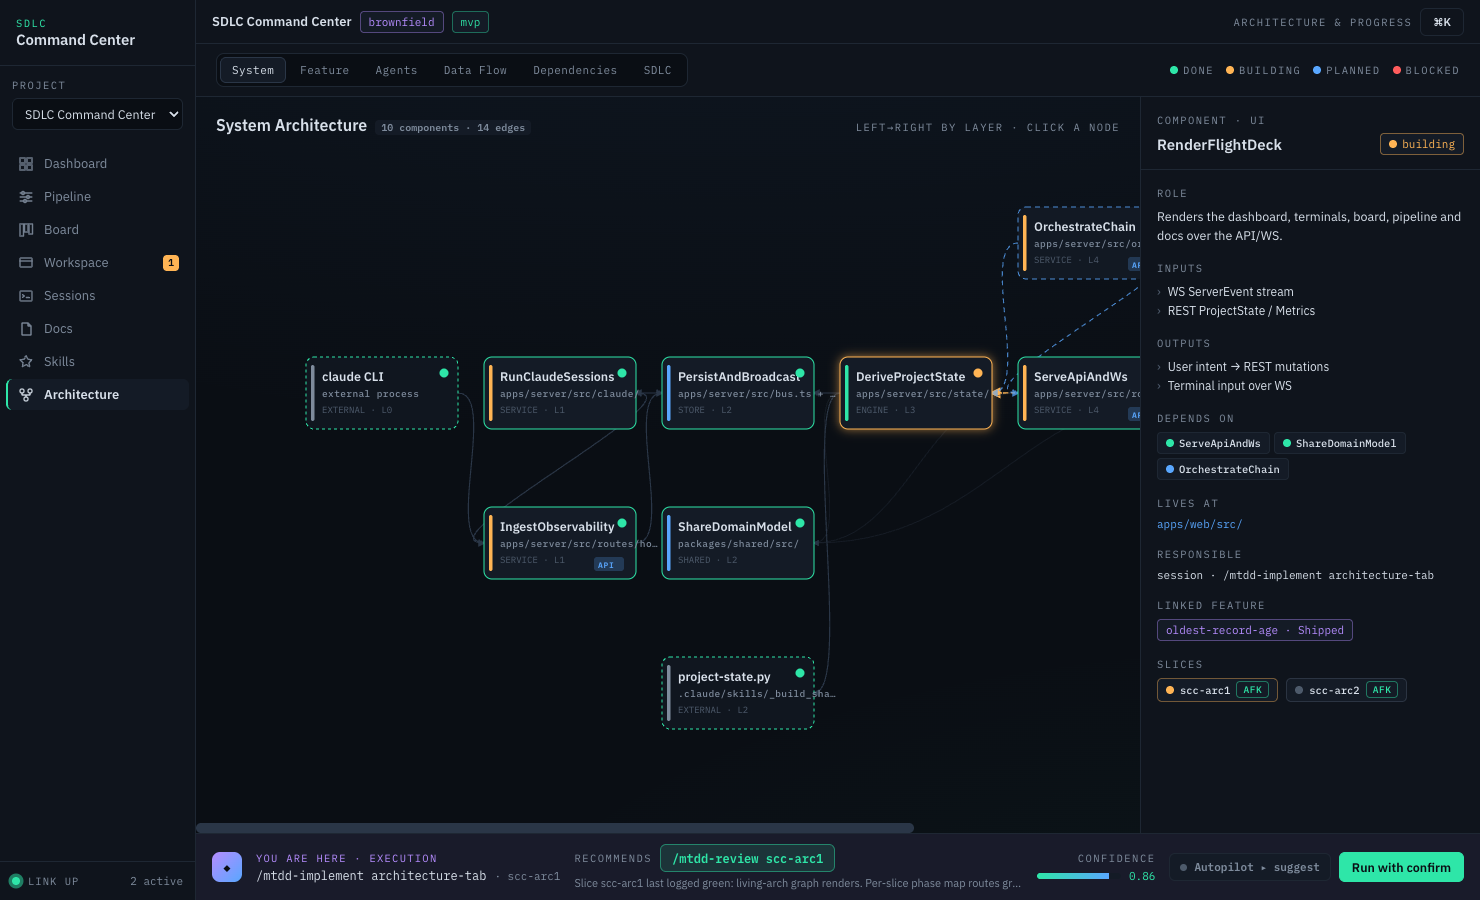
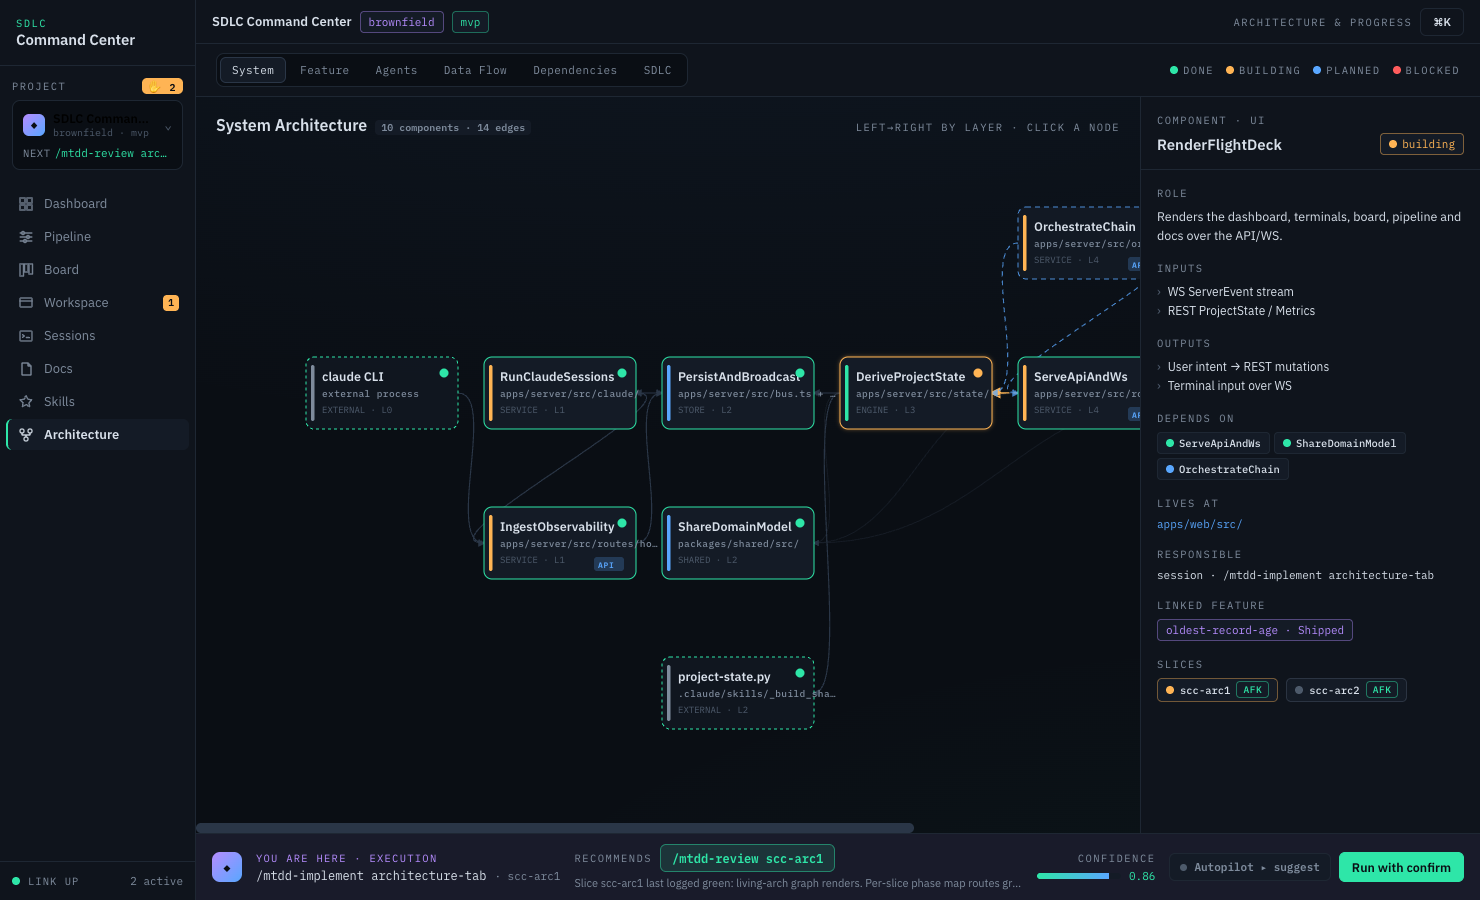
spike(v2): fold portfolio into prototype A as a rail switcher + popover
Per design decision (live inside one project; portfolio = switcher rail, not a
home screen): replace command-deck.html's plain project <select> with a switcher
that shows the current project + its conductor's next move + an ambient ✋ badge
when other projects need you. Clicking opens a portfolio popover (mockup C
distilled) ranked by urgency, each row a completion ring + next-move + Run. Top
bar and conductor strip now follow the selected project.

diff --git a/prototypes/v2-architecture-tab/command-deck.html b/prototypes/v2-architecture-tab/command-deck.html
@@ -110,6 +110,25 @@
 
     .seg-title { display: flex; align-items: baseline; gap: 8px; margin-bottom: 12px; }
     .badge-count { font: 600 10px var(--mono); padding: 1px 6px; border-radius: 4px; background: var(--raised); color: var(--muted); }
+
+    /* ---- portfolio switcher rail + popover ---- */
+    .switcher { position: relative; }
+    .switcher-btn { width: 100%; text-align: left; cursor: pointer; border: 1px solid var(--hairline); background: var(--bg); border-radius: 8px; padding: 9px 10px; transition: border-color 140ms; font-family: var(--sans); }
+    .switcher-btn:hover { border-color: var(--hairline-bright); }
+    .sw-mark { width: 22px; height: 22px; border-radius: 6px; flex-shrink: 0; display: flex; align-items: center; justify-content: center; background: linear-gradient(135deg, var(--violet), var(--blue)); color: var(--bg); font-size: 12px; }
+    .switcher-next { color: var(--green); }
+    .attn-badge { display: inline-flex; align-items: center; gap: 4px; height: 16px; padding: 0 6px; border-radius: 5px; background: var(--amber); color: var(--bg); font: 700 10px var(--mono); --accent: var(--amber); }
+    .scrim { position: fixed; inset: 0; background: color-mix(in srgb, var(--bg) 55%, transparent); z-index: 70; }
+    .popover { position: absolute; left: 6px; top: calc(100% + 8px); width: 338px; z-index: 80; background: var(--surface); border: 1px solid var(--hairline-bright); border-radius: 10px; box-shadow: 0 18px 44px rgba(0,0,0,0.55); overflow: hidden; }
+    .po-head { padding: 11px 14px; border-bottom: 1px solid var(--hairline); }
+    .po-row { padding: 11px 14px; border-bottom: 1px solid var(--hairline); cursor: pointer; transition: background 120ms; }
+    .po-row:last-child { border-bottom: none; }
+    .po-row:hover { background: var(--raised); }
+    .po-row.current { background: color-mix(in srgb, var(--green) 7%, transparent); }
+    .po-row.at-risk { border-left: 2px solid var(--red); }
+    .po-run { font: 600 10.5px var(--mono); padding: 4px 9px; border-radius: 5px; cursor: pointer; border: 1px solid color-mix(in srgb, var(--green) 45%, transparent); background: color-mix(in srgb, var(--green) 12%, transparent); color: var(--green); }
+    .po-run:hover { filter: brightness(1.15); }
+    .ring { transform: rotate(-90deg); }
   </style>
 </head>
 <body>
@@ -120,15 +139,7 @@
       <div class="micro kicker">SDLC</div>
       <div class="name">Command Center</div>
     </div>
-    <div class="rail-section">
-      <div class="micro" style="margin-bottom:6px;">Project</div>
-      <select class="select">
-        <option>SDLC Command Center</option>
-        <option>acme-billing</option>
-        <option>marketing-site</option>
-        <option>telemetry-pipeline</option>
-      </select>
-    </div>
+    <div class="rail-section switcher" id="switcher"></div>
     <nav class="rail-nav" id="nav"></nav>
     <div class="rail-section">
       <div class="row">
@@ -143,11 +154,7 @@
   <main class="main">
     <!-- top bar -->
     <div class="topbar">
-      <div class="row gap8">
-        <span style="font-weight:600;">SDLC Command Center</span>
-        <span class="chip" style="color:var(--violet);border-color:color-mix(in srgb,var(--violet) 40%,transparent)">brownfield</span>
-        <span class="chip" style="color:var(--green);border-color:color-mix(in srgb,var(--green) 40%,transparent)">mvp</span>
-      </div>
+      <div class="row gap8" id="topbarProj"></div>
       <div class="row gap8" style="margin-left:auto;">
         <span class="micro">Architecture &amp; Progress</span>
         <button class="btn ghost mono" style="font-size:11px;">⌘K</button>
@@ -653,51 +660,159 @@
   };
 
   // ============================================================
-  //  CONDUCTOR STRIP
+  //  PROJECT SWITCHER  (portfolio distilled into a rail switcher)
+  //  You live inside ONE project; the rail switches + ambient-badges the rest.
+  // ============================================================
+  let currentProjectId = (M.projects.find(p => p.current) || M.projects[0]).id;
+  let popoverOpen = false;
+  const curProject = () => M.projects.find(p => p.id === currentProjectId) || M.projects[0];
+  // rank by who needs a human most (mirrors the portfolio dispatcher — no cross-project reasoning, just ranking)
+  const urgency = p => (p.health === 'at-risk' ? 100 : 0) + p.attention * 10 + p.blocked * 6 + p.liveSessions;
+  const completion = p => {
+    const denom = (p.foundationTotal + p.building + p.shipped + p.blocked + p.planned) || 1;
+    return Math.round(((p.foundationDone + p.shipped) / denom) * 100);
+  };
+  const ring = (pct, color, size = 30) => {
+    const r = size / 2 - 3, c = 2 * Math.PI * r, off = c * (1 - pct / 100);
+    return `<span style="position:relative;display:inline-flex;width:${size}px;height:${size}px;align-items:center;justify-content:center;flex-shrink:0;">
+      <svg class="ring" width="${size}" height="${size}" style="position:absolute;inset:0;"><circle cx="${size / 2}" cy="${size / 2}" r="${r}" fill="none" stroke="var(--hairline)" stroke-width="3"/><circle cx="${size / 2}" cy="${size / 2}" r="${r}" fill="none" stroke="${color}" stroke-width="3" stroke-linecap="round" stroke-dasharray="${c.toFixed(1)}" stroke-dashoffset="${off.toFixed(1)}"/></svg>
+      <span style="font:600 9px var(--mono);color:var(--text);">${pct}</span></span>`;
+  };
+
+  const switcherEl = document.getElementById('switcher');
+
+  const renderPopover = () => {
+    const ranked = M.projects.slice().sort((a, b) => urgency(b) - urgency(a));
+    const rows = ranked.map(p => {
+      const pct = completion(p);
+      const col = p.health === 'at-risk' ? 'var(--red)' : (p.id === currentProjectId ? 'var(--green)' : 'var(--blue)');
+      const badges = [];
+      if (p.attention > 0) badges.push(`<span class="attn-badge">✋ ${p.attention}</span>`);
+      if (p.liveSessions > 0) badges.push(`<span class="chip" style="height:16px;color:var(--green);font-size:9.5px;">● ${p.liveSessions} live</span>`);
+      if (p.health === 'at-risk') badges.push(`<span class="chip" style="height:16px;color:var(--red);font-size:9.5px;border-color:color-mix(in srgb,var(--red) 45%,transparent)">at-risk</span>`);
+      return `<div class="po-row ${p.id === currentProjectId ? 'current' : ''} ${p.health === 'at-risk' ? 'at-risk' : ''}" data-proj="${p.id}">
+        <div class="row gap8">
+          ${ring(pct, col, 30)}
+          <div class="col grow" style="min-width:0;gap:3px;">
+            <div class="row gap8"><span class="nowrap" style="font-weight:600;font-size:12.5px;">${p.name}</span>${p.id === currentProjectId ? '<span class="tag" style="color:var(--green);border-color:color-mix(in srgb,var(--green) 45%,transparent)">current</span>' : ''}</div>
+            <div class="row gap4 wrap">${badges.length ? badges.join('') : `<span class="mono faint" style="font-size:10px;">${p.type} · ${p.tier} · ${p.lastActivity}</span>`}</div>
+          </div>
+        </div>
+        <div class="spread" style="margin-top:9px;">
+          <span class="switcher-next mono nowrap" style="font-size:11px;">${p.nextMove}</span>
+          <button class="po-run" data-run="${p.id}">Run ▸</button>
+        </div>
+      </div>`;
+    }).join('');
+    return `<div class="scrim" id="scrim"></div>
+      <div class="popover" id="popover">
+        <div class="po-head spread"><span class="micro">Portfolio · ${M.projects.length} projects</span><span class="micro faint">ranked · who needs you</span></div>
+        ${rows}
+      </div>`;
+  };
+
+  const wirePopover = () => {
+    const scrim = switcherEl.querySelector('#scrim');
+    if (scrim) scrim.onclick = () => { popoverOpen = false; renderSwitcher(); };
+    switcherEl.querySelectorAll('[data-proj]').forEach(r => {
+      r.onclick = (e) => {
+        if (e.target.closest('[data-run]')) return;
+        currentProjectId = r.getAttribute('data-proj');
+        popoverOpen = false;
+        renderSwitcher(); renderTopbar(); renderConductor();
+      };
+    });
+    switcherEl.querySelectorAll('[data-run]').forEach(b => {
+      b.onclick = (e) => {
+        e.stopPropagation();
+        b.textContent = 'Confirm?';
+        setTimeout(() => { b.textContent = 'Run ▸'; }, 1500);
+      };
+    });
+  };
+
+  const renderSwitcher = () => {
+    const cur = curProject();
+    const otherAttn = M.projects.filter(p => p.id !== cur.id).reduce((s, p) => s + p.attention, 0);
+    const ambient = otherAttn > 0 ? `<span class="attn-badge live-pulse">✋ ${otherAttn}</span>` : '';
+    switcherEl.innerHTML = `
+      <div class="micro spread" style="margin-bottom:6px;"><span>Project</span>${ambient}</div>
+      <button class="switcher-btn" id="swBtn">
+        <div class="row gap8">
+          <span class="sw-mark">◆</span>
+          <div class="col grow" style="min-width:0;">
+            <span class="nowrap" style="font-weight:600;font-size:12.5px;">${cur.name}</span>
+            <span class="mono faint" style="font-size:10px;">${cur.type} · ${cur.tier}</span>
+          </div>
+          <span class="faint" style="font-size:13px;">⌄</span>
+        </div>
+        <div class="row gap4" style="margin-top:7px;">
+          <span class="micro" style="letter-spacing:.06em;">next</span>
+          <span class="switcher-next mono nowrap" style="font-size:11px;">${cur.nextMove}</span>
+        </div>
+      </button>
+      ${popoverOpen ? renderPopover() : ''}`;
+    switcherEl.querySelector('#swBtn').onclick = (e) => { e.stopPropagation(); popoverOpen = !popoverOpen; renderSwitcher(); };
+    if (popoverOpen) wirePopover();
+  };
+
+  // ============================================================
+  //  TOP BAR (project-driven)
+  // ============================================================
+  const renderTopbar = () => {
+    const p = curProject();
+    document.getElementById('topbarProj').innerHTML = `
+      <span style="font-weight:600;">${p.name}</span>
+      <span class="chip" style="color:var(--violet);border-color:color-mix(in srgb,var(--violet) 40%,transparent)">${p.type}</span>
+      <span class="chip" style="color:var(--green);border-color:color-mix(in srgb,var(--green) 40%,transparent)">${p.tier}</span>
+      ${p.health === 'at-risk' ? '<span class="chip" style="color:var(--red);border-color:color-mix(in srgb,var(--red) 45%,transparent)">at-risk</span>' : ''}`;
+  };
+
+  // ============================================================
+  //  CONDUCTOR STRIP  (the CURRENT project's per-project conductor)
   // ============================================================
   const renderConductor = () => {
     const o = M.orchestrator;
-    const rec = o.recommendation;
+    const p = curProject();
+    let here, hereLine, rec, rationale, conf;
+    if (p.id === o.projectId) {
+      here = o.youAreHere.phase;
+      hereLine = `<span class="mono" style="font-size:12px;color:var(--text);">/${o.youAreHere.stage} ${o.youAreHere.feature}</span><span class="mono dim" style="font-size:11px;">· ${o.youAreHere.slice}</span>`;
+      rec = o.recommendation; rationale = o.recommendation.rationale; conf = o.confidence;
+    } else {
+      const parts = p.nextMove.replace(/^\//, '').split(' ');
+      rec = { skill: parts[0], args: parts.slice(1).join(' ') };
+      here = `${p.type} · ${p.tier}`;
+      hereLine = `<span class="mono" style="font-size:12px;color:var(--text);">${p.name}</span>`;
+      rationale = `Highest-priority move for ${p.name} — ${p.shipped} shipped · ${p.building} building · ${p.blocked} blocked.`;
+      conf = p.health === 'at-risk' ? 0.72 : 0.84;
+    }
     const cond = document.getElementById('conductor');
     cond.innerHTML = `
       <div class="avatar">◆</div>
       <div class="col" style="gap:3px;min-width:0;">
-        <div class="micro" style="color:var(--violet);letter-spacing:.12em;">You are here · ${o.youAreHere.phase}</div>
-        <div class="row gap8 nowrap">
-          <span class="mono" style="font-size:12px;color:var(--text);">/${o.youAreHere.stage} ${o.youAreHere.feature}</span>
-          <span class="mono dim" style="font-size:11px;">· ${o.youAreHere.slice}</span>
-        </div>
+        <div class="micro" style="color:var(--violet);letter-spacing:.12em;">You are here · ${here}</div>
+        <div class="row gap8 nowrap">${hereLine}</div>
       </div>
       <div class="col" style="gap:4px;flex:1;min-width:0;">
-        <div class="row gap8 nowrap">
-          <span class="micro">Recommends</span>
-          <span class="rec-chip">/${rec.skill} ${rec.args}</span>
-        </div>
-        <div class="dim nowrap" style="font-size:11px;">${rec.rationale}</div>
+        <div class="row gap8 nowrap"><span class="micro">Recommends</span><span class="rec-chip">/${rec.skill} ${rec.args}</span></div>
+        <div class="dim nowrap" style="font-size:11px;">${rationale}</div>
       </div>
       <div class="col" style="gap:4px;align-items:flex-end;flex-shrink:0;">
         <div class="micro">confidence</div>
-        <div class="row gap8"><div class="conf-meter"><i style="width:${o.confidence * 100}%"></i></div><span class="mono" style="font-size:11px;color:var(--green)">${o.confidence.toFixed(2)}</span></div>
+        <div class="row gap8"><div class="conf-meter"><i style="width:${conf * 100}%"></i></div><span class="mono" style="font-size:11px;color:var(--green)">${conf.toFixed(2)}</span></div>
       </div>
       <div class="row gap8" style="flex-shrink:0;">
         <button class="toggle ${o.autopilot.enabled ? 'on' : ''}" id="apToggle"><span class="pip"></span>Autopilot ▸ ${o.autopilot.mode}</button>
         <button class="btn primary" id="runBtn">Run with confirm</button>
       </div>`;
-
-    cond.querySelector('#apToggle').onclick = (e) => {
-      const t = e.currentTarget;
-      const on = t.classList.toggle('on');
-      t.lastChild.textContent = ` Autopilot ▸ ${on ? 'gated' : 'suggest'}`;
-    };
-    cond.querySelector('#runBtn').onclick = (e) => {
-      const b = e.currentTarget;
-      b.textContent = 'Confirm: /' + rec.skill + ' ' + rec.args + ' ?';
-      b.style.background = 'var(--amber)'; b.style.borderColor = 'var(--amber)';
-      setTimeout(() => { b.textContent = 'Run with confirm'; b.style.background = ''; b.style.borderColor = ''; }, 1800);
-    };
+    cond.querySelector('#apToggle').onclick = (e) => { const t = e.currentTarget; const on = t.classList.toggle('on'); t.lastChild.textContent = ` Autopilot ▸ ${on ? 'gated' : 'suggest'}`; };
+    cond.querySelector('#runBtn').onclick = (e) => { const b = e.currentTarget; b.textContent = 'Confirm: /' + rec.skill + ' ' + rec.args + ' ?'; b.style.background = 'var(--amber)'; b.style.borderColor = 'var(--amber)'; setTimeout(() => { b.textContent = 'Run with confirm'; b.style.background = ''; b.style.borderColor = ''; }, 1800); };
   };
 
   // ---- boot ----
+  renderSwitcher();
+  renderTopbar();
   renderTabs();
   renderCanvas();
   renderInspector();
